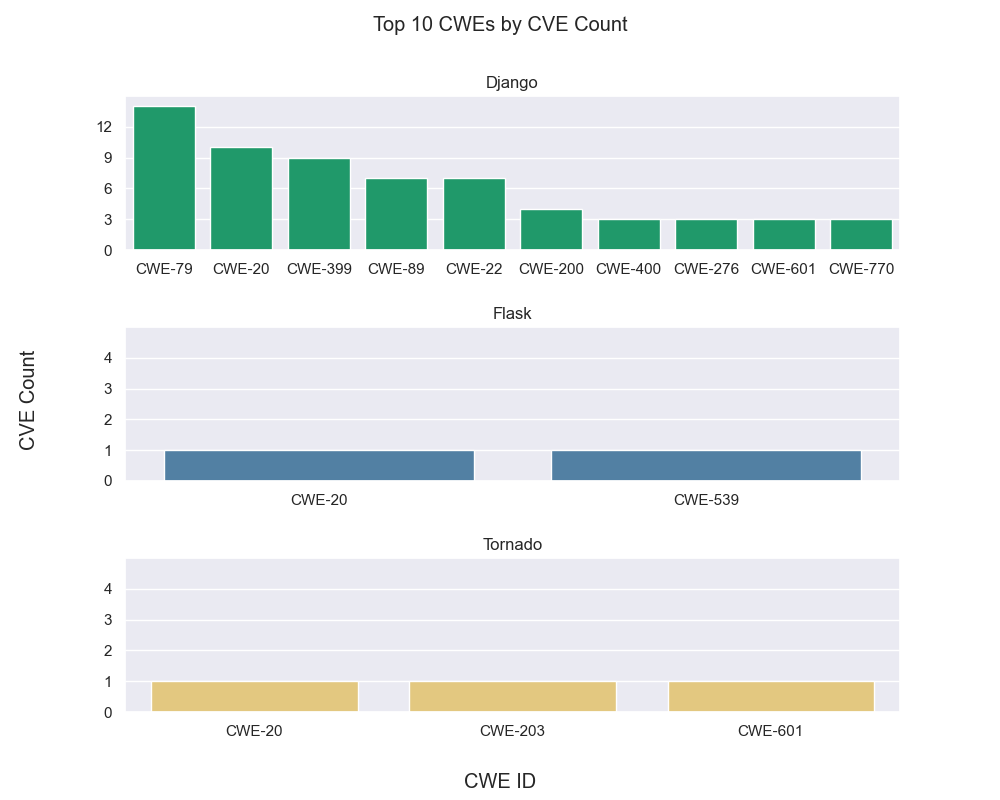
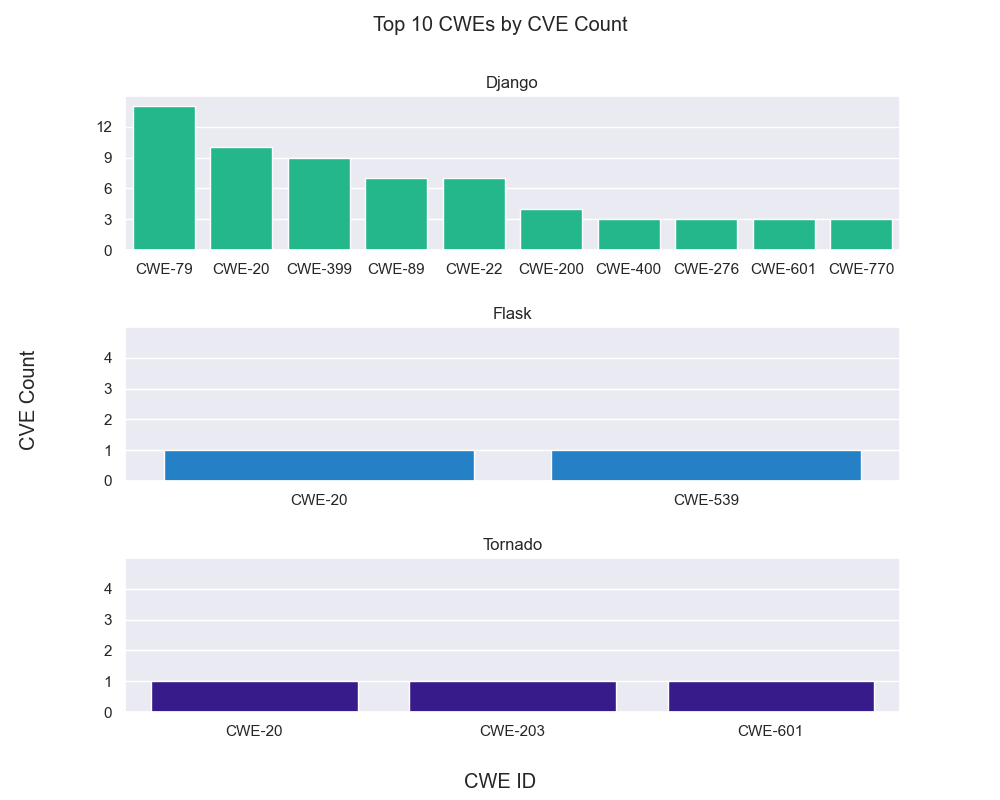
Update color schemes

diff --git a/scripts/plotter.py b/scripts/plotter.py
@@ -67,6 +67,15 @@ if not kpiset_timeline.issubset(valid_kpis):
 sns.set_theme(style='darkgrid')
 
 class Global:
+    # #0BD095, #0B84E0, #2E099C
+    project_palette = {
+        "django": "#0BD095",
+        "Django": "#0BD095",
+        "flask": "#0B84E0",
+        "Flask": "#0B84E0",
+        "tornado": "#2E099C",
+        "Tornado": "#2E099C"
+    }
     colours = [
         "#0cad6f","#4582b1","#f4d06f","#c4603b","#c477bf"
     ]
@@ -88,7 +97,6 @@ class Global:
         "B6": "#5b1878",
         "B7": "#b1136d"
     }
-    dependency_palette = ["#30bbb9","#2badb1","#259faa","#2091a2","#1b849a","#157692","#10688b","#0a5a83","#054c7b"]
 
     class Colours:
         light_grey = "#c0c0c0"
@@ -373,7 +381,7 @@ def plot_overall_cwe_distribution(overall: dict, *measurements: str):
         project_data = df[df['Project'] == project]
         project_data = project_data.sort_values(by='CVE Count', ascending=False)
         project_data = project_data.head(10)
-        sns.barplot(data=project_data, x='CWE ID', y='CVE Count', ax=ax, color=Global.colours[i])
+        sns.barplot(data=project_data, x='CWE ID', y='CVE Count', ax=ax, color=Global.project_palette[project])
         max_count = max(project_data['CVE Count'])
         ylim = max_count + 1 if max_count > 10 else 5
         step = ylim // 5
